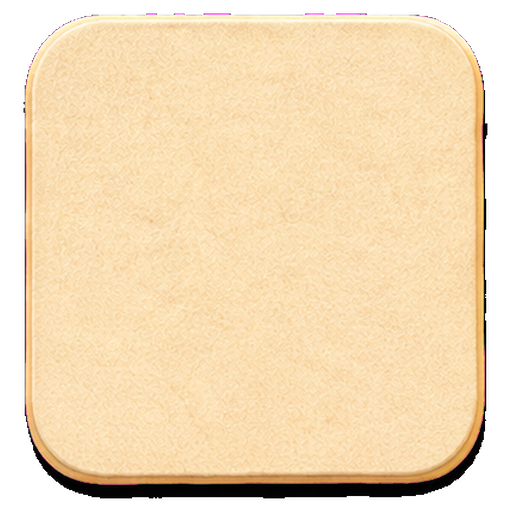
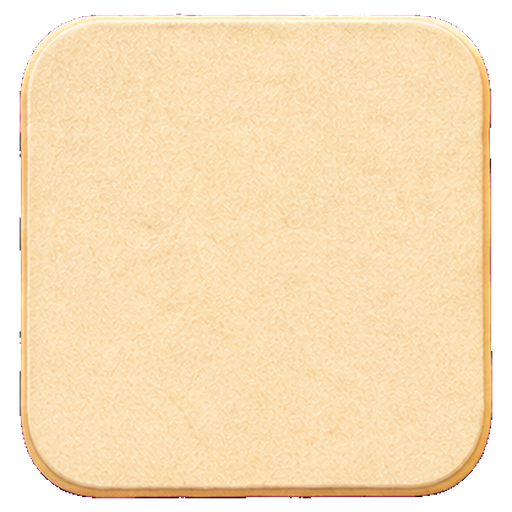
Recut cell sprites: hue keyer removes shadow-on-key, engine casts the shadow
The cell sprites shipped with a hard black band welded to their bottom edge. Root
cause: the generated sheet casts a drop shadow ONTO the magenta key, so that band
is *darkened* magenta (#7C036E). The distance keyer left it opaque, and the ad-hoc
magenta-neutralization pass then mapped it to near-black.

Tolerance cannot fix this: the mauve cell subject is CLOSER to #FF00FF in RGB
distance than the dark shadow is (measured: a tol wide enough to catch the shadow
erases the tile). Hue does separate them — subject magenta-excess maxes at 46, the
shadow band sits at 107.

- chroma_key.gd gains a hue mode: magenta-excess ramp, border-seeded flood (so an
  enclosed magenta detail can never be keyed) + despill of surviving edge pixels
- intake_apply.py plans accept "hue": true (+ soft/hard)
- cell sheet recut through the pipeline; sprites are now shadow-free per guide §0
- slot_cell re-enables the shared engine shadow for sprite faces

Guarded by 6 new cases in the tools keyer suite, including the one proving why
distance mode cannot serve this sheet.

diff --git a/games/tools/intake_apply.py b/games/tools/intake_apply.py
@@ -113,7 +113,14 @@ def slice_args(eff: str, src_abs: str, prefix: str, params: dict) -> list[str]:
 
 def matte_tool_and_args(keyed_abs: str, params: dict) -> tuple[str, list[str]]:
     """Pick the matte keyer for a scratch copy: chroma_key when a `key` colour is given
-    (saturated backgrounds), else cutout_bg (bright/white backgrounds)."""
+    (saturated backgrounds), else cutout_bg (bright/white backgrounds).
+
+    `"hue": true` selects chroma_key's magenta-excess mode — required when the art casts a
+    DROP SHADOW onto the key, since that shadow is darkened key colour that no distance
+    tolerance can remove without also eating mauve/purple subject pixels."""
+    if params.get("hue"):
+        return CHROMA_TOOL, [keyed_abs, "hue=1",
+                             f"soft={params.get('soft', 55)}", f"hard={params.get('hard', 100)}"]
     key = params.get("key")
     if key:
         return CHROMA_TOOL, [keyed_abs, f"key={key}", f"tol={params.get('tol', 0.18)}"]
